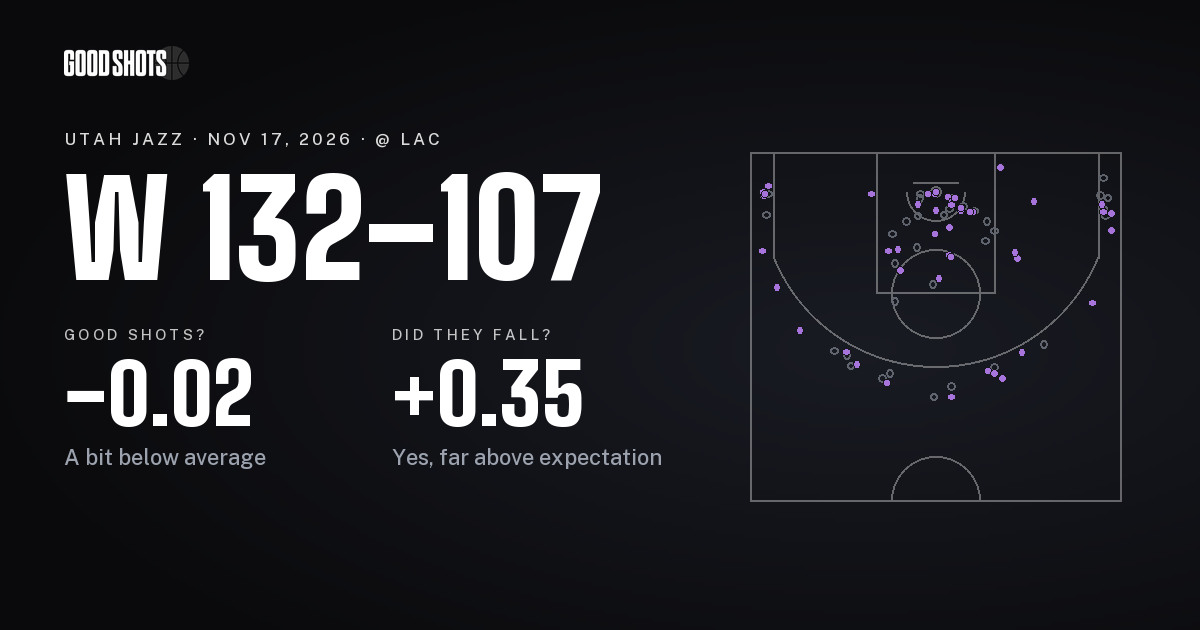
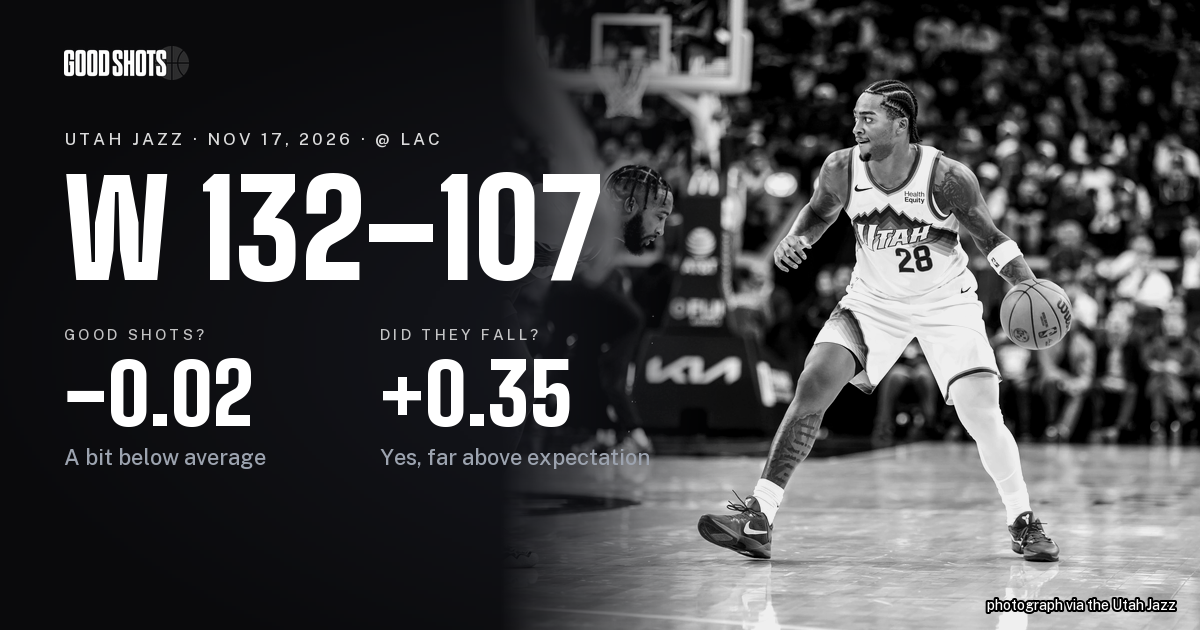
Give the Clippers report card its game photograph
Brice Sensabaugh sizing up a Clippers defender on the dribble, the
header of the Jazz's preview of the 11-18 Lakers game (DSC00328),
credited "photograph via the Utah Jazz" from an empty record. The game
is verified by the opponent and the jersey patch: the Clippers jersey
and the Kia stanchion put it at the Clippers, 11-17 is the Jazz's only
game against them so far, and the Jazz played no Clippers preseason
game. Sensabaugh was a Jazz player in 2025-26 too, but his jersey
carries the HealthEquity patch of the 2026-27 frames, where the 2025-26
white jersey of the same design carries LVT. The camera counter agrees,
following the night's recap header past the wrap. That header
(DSC09950, Peterson slapping hands with George, no opponent in frame)
was passed over: white fits nine earlier games. Focal points checked at
the 375px poster and the 1440px wide panel with its left fade; the
share card redrawn with the photograph.

diff --git a/src/teams/gamePhotos.ts b/src/teams/gamePhotos.ts
@@ -130,6 +130,13 @@ export const GAME_PHOTOS: Readonly<Record<string, GamePhoto>> = {
     imagePosition: '54% 40%',
     imagePositionWide: '50% 30%',
   },
+  '2026-11-17-lac': {
+    imagePath: 'img/games/2026-11-17-lac.jpg',
+    imageAlt: 'Brice Sensabaugh sizes up a Clippers defender on the dribble, in the white Jazz number 28 jersey',
+    imageCredit: 'photograph via the Utah Jazz',
+    imagePosition: '55% 40%',
+    imagePositionWide: '35% 30%',
+  },
 }
 
 export function gamePhotoOf(slug: string): GamePhoto | undefined {

diff --git a/docs/image-credits.md b/docs/image-credits.md
@@ -481,3 +481,31 @@ an empty credit and the file no embedded metadata, so it is credited
   the Jazz bench with no opponent in frame), headed the 11-16 Bamba
   feature and was passed over: purple at home also fits 10-25, 10-26, and
   11-10, and nothing in it proves its game.
+
+The photo finder listed two team frames for 11-17 after the 06:30 session
+of 2026-11-18, and the one that shows its opponent was picked the same
+day. Pulled 2026-11-18 by `game:photo` and retained in
+`data/game-sources/2026-11-17-lac.jpg`; the record carries an empty credit
+and the file no embedded metadata, so it is credited "photograph via the
+Utah Jazz".
+
+- `public/img/games/2026-11-17-lac.jpg`, Brice Sensabaugh (28, white)
+  sizing up a Clippers defender in navy on the dribble, the defender
+  crouched low at left with no number in view, a blurred hand across the
+  frame's upper left corner: the header of the Jazz's preview of the 11-18
+  Lakers game, posted 11-18 07:18 UTC, before any later Jazz game,
+  `cdn.nba.com/teams/uploads/sites/1610612762/2026/11/DSC00328.jpg`
+  (8732x5821). **The game is verified by the opponent and the jersey
+  patch**: the Clippers jersey and the Kia stanchion put it at the
+  Clippers, 11-17 is the Jazz's only game against them so far, and the
+  Jazz played no Clippers preseason game (Denver, San Antonio, Phoenix).
+  Sensabaugh was a Jazz player in 2025-26 too, and the patch rules out
+  that season's games at the Clippers: his jersey carries the HealthEquity
+  patch the 2026-27 frames carry (the 11-11 Orlando photograph, above),
+  where the 2025-26 white jersey of the same mountain design carries LVT
+  (the Cody Williams banner, Jazz vs San Antonio, 2025-26, above). The
+  counter agrees, following the night's recap header past the camera's
+  wrap at 9999. That header, `.../2026/11/DSC09950.jpg` (Peterson, 22,
+  white, slapping hands with George, 3, Sensabaugh behind them, no
+  opponent in frame), was passed over: white fits nine earlier games, and
+  nothing in it proves its game.
